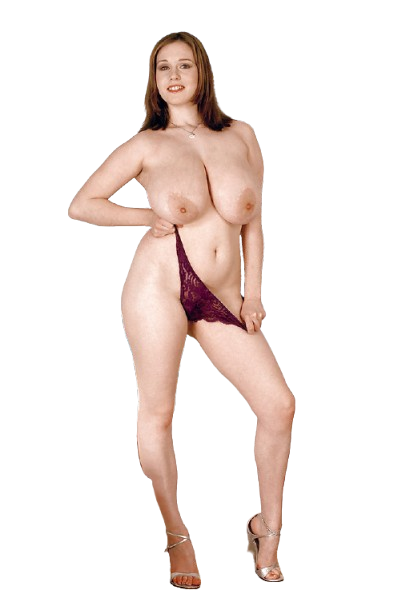
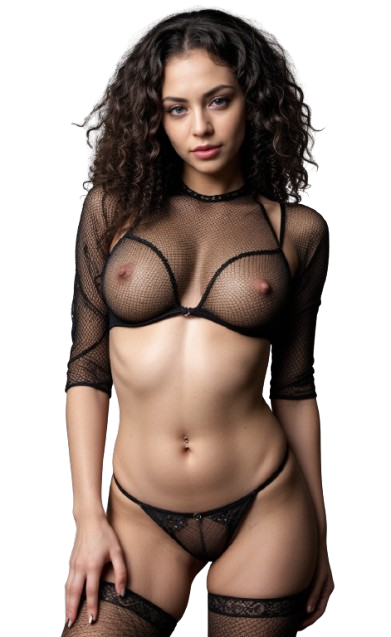
added three steps

diff --git a/src/components/PositionCounter.tsx b/src/components/PositionCounter.tsx
@@ -3,9 +3,7 @@ import { motion } from "framer-motion";
 import { supabase } from "../lib/supabase";
 
 import nudeImg from "@/assets/nude.png";
-import exoticImg from "@/assets/exotic.jpg";
-
-// Replace with your own safe, normal placeholder images later
+import exoticImg from "@/assets/exotic.png";
 import step1Img from "@/assets/step1.png";
 import step2Img from "@/assets/step2.png";
 import step3Img from "@/assets/step3.png";
@@ -96,28 +94,26 @@ const PositionCounter: React.FC<PositionCounterProps> = ({ className = "" }) => 
     show: { opacity: 1, y: 0, transition: { duration: 0.8, ease: "easeOut" } },
   };
 
-  // ✅ Steps content (injected version)
-const steps = [
-  {
-    id: 1,
-    title: "Sign Up For Free",
-    text: "Sign up before guaranteed positions are gone",
-    image: step1Img,
-  },
-  {
-    id: 2,
-    title: "Fill Out Registration Form",
-    text: "Exotics: Upload creative content to get approved. Everyone Else: Earn up to $10,000 to $22,500 a month GUARANTEED.",
-    image: step2Img,
-  },
-  {
-    id: 3,
-    title: "Transfer Your Followers",
-    text: "Want more money? Add followers = $$$$",
-    image: step3Img,
-  },
-];
-
+  const steps = [
+    {
+      id: 1,
+      title: "Sign Up For Free",
+      text: "Sign up before guaranteed positions are gone",
+      image: step1Img,
+    },
+    {
+      id: 2,
+      title: "Fill Out Registration Form",
+      text: "Exotics: Upload creative content to get approved. Everyone Else: Earn up to $10,000 to $22,500 a month GUARANTEED.",
+      image: step2Img,
+    },
+    {
+      id: 3,
+      title: "Transfer Your Followers",
+      text: "Want more money? Add followers = $$$$",
+      image: step3Img,
+    },
+  ];
 
   return (
     <div className={`py-16 px-5 bg-black ${className}`}>
@@ -126,8 +122,9 @@ const steps = [
         <h2 className="text-3xl md:text-4xl font-semibold text-center mb-12 text-white">
           Incentive positions available now
         </h2>
+
         <div className="grid gap-12 grid-cols-1 md:grid-cols-2">
-          {/* 💎 Diamond Plus Card */}
+          {/* 💎 Diamond Plus */}
           <motion.div
             className="relative flex flex-col justify-end h-[500px] bg-[#0b0b0b] border border-gray-800 rounded-3xl overflow-hidden shadow-lg hover:shadow-indigo-500/30 transition-all duration-500"
             initial="hidden"
@@ -135,13 +132,11 @@ const steps = [
             variants={fadeIn}
             whileHover={{ scale: 1.02 }}
           >
-            <div className="absolute inset-0">
+            <div className="absolute inset-0 overflow-hidden flex items-end justify-start">
               <img
                 src={nudeImg}
                 alt="diamond plus"
-                className="w-full h-full object-cover object-center"
-                loading="lazy"
-                onError={(e) => (e.currentTarget.src = "/assets/placeholder.svg")}
+                className="h-full w-auto md:h-[110%] object-contain object-bottom"
               />
               <div className="absolute inset-0 bg-gradient-to-t from-black/90 via-black/60 to-transparent" />
             </div>
@@ -170,7 +165,7 @@ const steps = [
             </div>
           </motion.div>
 
-          {/* 🥈 Silver Plus Card */}
+          {/* 🥈 Silver Plus */}
           <motion.div
             className="relative flex flex-col justify-end h-[500px] bg-[#0b0b0b] border border-gray-800 rounded-3xl overflow-hidden shadow-lg hover:shadow-indigo-500/30 transition-all duration-500"
             initial="hidden"
@@ -178,13 +173,11 @@ const steps = [
             variants={fadeIn}
             whileHover={{ scale: 1.02 }}
           >
-            <div className="absolute inset-0">
+            <div className="absolute inset-0 overflow-hidden flex items-end justify-start">
               <img
                 src={exoticImg}
                 alt="silver plus"
-                className="w-full h-full object-cover object-center"
-                loading="lazy"
-                onError={(e) => (e.currentTarget.src = "/assets/placeholder.svg")}
+                className="h-full w-auto md:h-[110%] object-contain object-bottom"
               />
               <div className="absolute inset-0 bg-gradient-to-t from-black/90 via-black/60 to-transparent" />
             </div>
@@ -215,41 +208,65 @@ const steps = [
         </div>
       </div>
 
-      {/* === 3 EASY STEPS SECTION === */}
-      <div className="max-w-6xl mx-auto px-6 mt-20">
-        <h2 className="text-3xl md:text-4xl font-semibold text-center mb-12 text-white">
-          Get Started In 3 Easy Steps
-        </h2>
-        <div className="grid grid-cols-1 md:grid-cols-3 gap-8">
-          {steps.map((step) => (
-            <motion.div
-              key={step.id}
-              className="relative bg-gradient-to-b from-indigo-700 to-purple-800 rounded-3xl text-center p-6 md:p-8 shadow-lg overflow-hidden flex flex-col items-center"
-              initial="hidden"
-              animate="show"
-              variants={fadeIn}
-              whileHover={{ scale: 1.02 }}
-            >
-              <div className="mb-3 ">
-                <span className="bg-white/10 text-md px-6 py-2 rounded-full font-semibold">
-                  Step {step.id}
-                </span>
-              </div>
-              <h3 className="text-lg md:text-xl font-bold mb-3 text-white">
-                {step.title}
-              </h3>
-              <p className="text-sm text-gray-200 mb-6 max-w-xs">
-                {step.text}
-              </p>
-              <img
-                src={step.image}
-                alt={`Step ${step.id}`}
-                className="w-full max-w-[250px] h-auto object-contain drop-shadow-lg"
-              />
-            </motion.div>
-          ))}
-        </div>
-      </div>
+{/* === 3 EASY STEPS SECTION === */}
+<div className="max-w-6xl mx-auto px-6 mt-20 relative">
+  <h2 className="text-3xl md:text-4xl font-semibold text-center mb-12 text-white">
+    Get Started In 3 Easy Steps
+  </h2>
+
+  <div className="grid grid-cols-1 md:grid-cols-3 gap-8">
+    {steps.map((step, index) => (
+      <motion.div
+        key={step.id}
+        className="relative bg-gradient-to-b from-[#151515] to-[#0b0b0b] border border-gray-800 rounded-3xl text-center p-8 shadow-xl overflow-hidden flex flex-col items-center justify-end h-[460px]"
+        initial={{ opacity: 0, y: 50 }}
+        whileInView={{ opacity: 1, y: 0 }}
+        transition={{ duration: 0.8, delay: index * 0.2 }}
+        viewport={{ once: true }}
+        whileHover={{ scale: 1.03 }}
+      >
+        {/* Animated Background Illustration */}
+        <motion.div
+          className="absolute inset-0 flex items-end justify-center overflow-hidden"
+          initial={{ scale: 1.1, opacity: 0 }}
+          whileInView={{ scale: 1, opacity: 1 }}
+          transition={{ duration: 1, ease: "easeOut", delay: 0.3 + index * 0.2 }}
+          viewport={{ once: true }}
+        >
+          <img
+            src={step.image}
+            alt={`Step ${step.id}`}
+            className="w-[80%] md:w-[70%] h-auto object-contain mb-[-5px] drop-shadow-[0_0_25px_rgba(79,70,229,0.4)]"
+          />
+          {/* Stronger gradient overlay for text readability */}
+          <div className="absolute inset-0 bg-gradient-to-t from-black via-black/40 to-transparent" />
+        </motion.div>
+
+        {/* Animated Text */}
+        <motion.div
+          className="relative z-10 text-white"
+          initial={{ opacity: 0, y: 30 }}
+          whileInView={{ opacity: 1, y: 0 }}
+          transition={{ duration: 0.8, delay: 0.5 + index * 0.2 }}
+          viewport={{ once: true }}
+        >
+          <div className="mb-3">
+            <span className="bg-indigo-600/20 border border-indigo-400/20 text-sm px-6 py-2 rounded-full font-semibold tracking-wide backdrop-blur-sm">
+              Step {step.id}
+            </span>
+          </div>
+          <h3 className="text-xl font-bold mb-3 bg-gradient-to-r from-indigo-400 to-purple-500 bg-clip-text text-transparent">
+            {step.title}
+          </h3>
+          <p className="text-sm text-gray-300 mb-4 max-w-xs mx-auto leading-relaxed">
+            {step.text}
+          </p>
+        </motion.div>
+      </motion.div>
+    ))}
+  </div>
+</div>
+
     </div>
   );
 };

diff --git a/src/components/HeroBanner.tsx b/src/components/HeroBanner.tsx
@@ -71,11 +71,11 @@ const HeroBanner: React.FC = () => {
           whileInView={{ opacity: 1, y: 0 }}
           transition={{ duration: 0.8, ease: "easeOut" }}
           viewport={{ once: true }}
-          className="flex flex-col md:flex-row items-center justify-between rounded-[2rem] p-10 md:p-14 lg:p-16 max-w-6xl w-full border border-gray-700 shadow-2xl"
+          className="relative flex flex-col md:flex-row items-center justify-between rounded-[2rem] p-10 md:p-14 lg:p-16 max-w-6xl w-full border border-gray-700 shadow-2xl"
         >
           {/* Left Section */}
           <div className="text-center md:text-left space-y-6 md:w-1/2">
-            {/* Logo + Vector (after text) */}
+            {/* Logo + Vector */}
             <motion.div
               initial={{ opacity: 0, x: -40 }}
               whileInView={{ opacity: 1, x: 0 }}
@@ -120,20 +120,18 @@ const HeroBanner: React.FC = () => {
             </motion.button>
           </div>
 
-          {/* Right Section (Lady Image Placeholder) */}
-          <motion.div
-            initial={{ opacity: 0, x: 60 }}
+          {/* Desktop-right hero image anchored to the card's inner bottom-right */}
+          <motion.img
+            src={placeholderLady}
+            alt="Hero figure"
+            initial={{ opacity: 0, x: 40 }}
             whileInView={{ opacity: 1, x: 0 }}
             transition={{ duration: 0.8, delay: 0.4 }}
-            className="relative mt-12 md:mt-0 md:w-1/2 flex justify-center"
-          >
-            <img
-              src={placeholderLady}
-              alt="Hero figure"
-              className="w-[280px] sm:w-[340px] md:w-[420px] lg:w-[460px] object-contain rounded-[1.5rem] transition-transform duration-500 hover:scale-105"
-              loading="lazy"
-            />
-          </motion.div>
+            viewport={{ once: true }}
+            loading="lazy"
+            className="hidden md:block absolute right-8 md:bottom-2 lg:bottom-0 w-[280px] sm:w-[340px] md:w-[420px] lg:w-[460px] object-contain rounded-[1.5rem] transition-transform duration-500 hover:scale-105"
+            style={{ transformOrigin: "bottom right" }}
+          />
         </motion.div>
       </section>
     </div>
